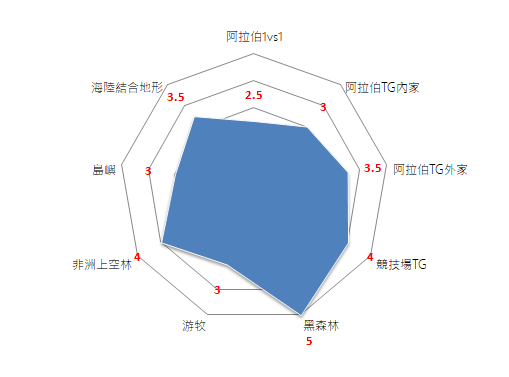
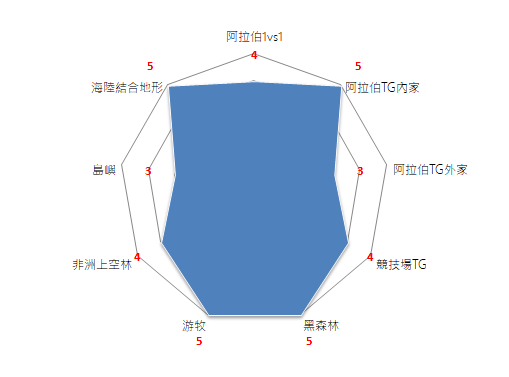
GitBook: [master] 2 pages and 2 assets modified

Changed region(s): [[0.3242, 0.2042, 0.7662, 0.6419], [0.2947, 0.6419, 0.5894, 0.8462], [0.3831, 0.8753, 0.4126, 0.9045]]

diff --git a/wen-ming/untitled-30.md b/wen-ming/untitled-30.md
@@ -1,5 +1,5 @@
 ---
-description: "(3.5) \U0001F315\U0001F315\U0001F315\U0001F317"
+description: "(4.2) \U0001F315\U0001F315\U0001F315\U0001F315"
 ---
 
 # 波斯 Persians
@@ -7,7 +7,7 @@ description: "(3.5) \U0001F315\U0001F315\U0001F315\U0001F317"
 * **勝率\(排名\)：**1v1 42.60%\(35\)。TG 50.74%\(9\)。
 * **新手推薦程度**
 
-普通。
+推薦。
 
 * **文明加成與科技樹**
 
@@ -15,11 +15,13 @@ description: "(3.5) \U0001F315\U0001F315\U0001F315\U0001F317"
 
 * **火山評分**
 
-不列顛經濟好、軍事強，弓兵隨時代加射程，對遠距單位來說，射程決定了很多操作空間，加上射箭場效率增加20%，弓兵線非常強，但有些戰局不列顛會像維京一樣龜在家裡，考驗防守能力，不一定適合新手。不列顛其實也可以肉馬開局，殺羊快讓升級早、食物多，馬也只少了血統，其他科技全滿，馬還不錯。
+![](../.gitbook/assets/image%20%2813%29.png)
 
-不列顛我認為是阿拉伯團戰外家第一弓國，殺羊快可以更容易20p 21p升級封建2BA，或者黑跳城，射程遠、弓兵出的快\(團隊加成\)，讓一個隊伍非常需要不列顛同盟，這些優勢完全掩蓋掉沒有拇指環的缺陷。不列顛的射程優勢從城堡時代開始，所以就算用市集買賣都應該快點到城堡，考驗經濟調配能力，頂尖選手可以20分到城堡。
+波斯是奇妙的文明，TC工作效率高，表示村民比對手多，看起來經濟很好，科技樹也不差，還有馬打弓兵+2攻擊的團隊加成，但這些都沒有反映在單挑勝率和頂尖選手的評價上，我不理解原因。雖然這樣，我更偏向波斯是普遍被低估，在阿拉伯還是給很高的分數，比較可能的困擾是會發生村民生得太快，資源花得多，影響到出兵的資源，這個時候可以考慮先不要蓋那麼多TC，波斯2TC甚至1TC經濟都很好。
 
-雖然射程遠在封閉圖好像有用，但是面對重投不會真的就不怕，弓兵被丟到死一整片，反觀弓兵要一直控制去點重投，所以不列顛在封閉圖我覺得只能算普通，但是他的金冠戰狼嚎在這種時候就很有用。
+波斯有大象，戰象是世紀帝國最強的兵種，需要超過80塊田，甚至盟友進貢才養得起，成形幾乎無解，駱駝打不過，戟兵只能消耗，比較能抗衡的是僧侶，但波斯有忠誠信仰，單位被敵人僧侶招降的困難度增加50%，戰象一大波海過來也不好招，第二是重投，重投成形也無敵，輕鬆打戰象。所以波斯可以出戰象，但是只限大後期，因為戰象太貴，同樣的資源能出好幾隻遊俠，盟友通常不可能撐過直接出戰象的空窗期。
 
-海圖我很糾結，不列顛的船的科技只少了重型火砲船，海不差，吃羊讓升級稍微快一點在海圖有一點點優勢，雖然海圖可以單TC打到底，但是TC便宜更容易開來充實經濟，所以我給4分。
+游牧我覺得波斯是團戰第一文明，單挑每個人就各有喜好，因為多50食物、50木頭，所以正確波斯游牧開局是一個村民看到大木頭直接蓋TC\(不管有沒有食物\)，一村蓋房子，一村直接蓋碼頭出一艘船，剛開始的村民全部都先伐木，保持不斷漁船，很晚才會開始吃肉。波斯可打陸地可打海，甚至因為TC血多2倍，是最適合TC爆的文明。\(別爆我\)
+
+波斯是一個海陸非常兼容的文明，從超級隨機到海陸結合圖都很適合選波斯，他的陸地經濟本來就好，碼頭又可以比較早下，經濟更好，波斯的碼頭工作效率也高，很多人忘記，表示波斯出船快，前中期打海也有優勢。
 

diff --git a/wen-ming/untitled-31.md b/wen-ming/untitled-31.md
@@ -15,7 +15,7 @@ description: "(3.5) \U0001F315\U0001F315\U0001F315\U0001F317"
 
 * **火山評分**
 
-![](../.gitbook/assets/image%20%2813%29.png)
+![](../.gitbook/assets/image%20%2814%29.png)
 
 蒙古是個大前期和大後期強大的文明，具體優勢圍繞在「快」，但是不持久，而且需要一直控制，天花板也有限，不適合新手入門。
 
